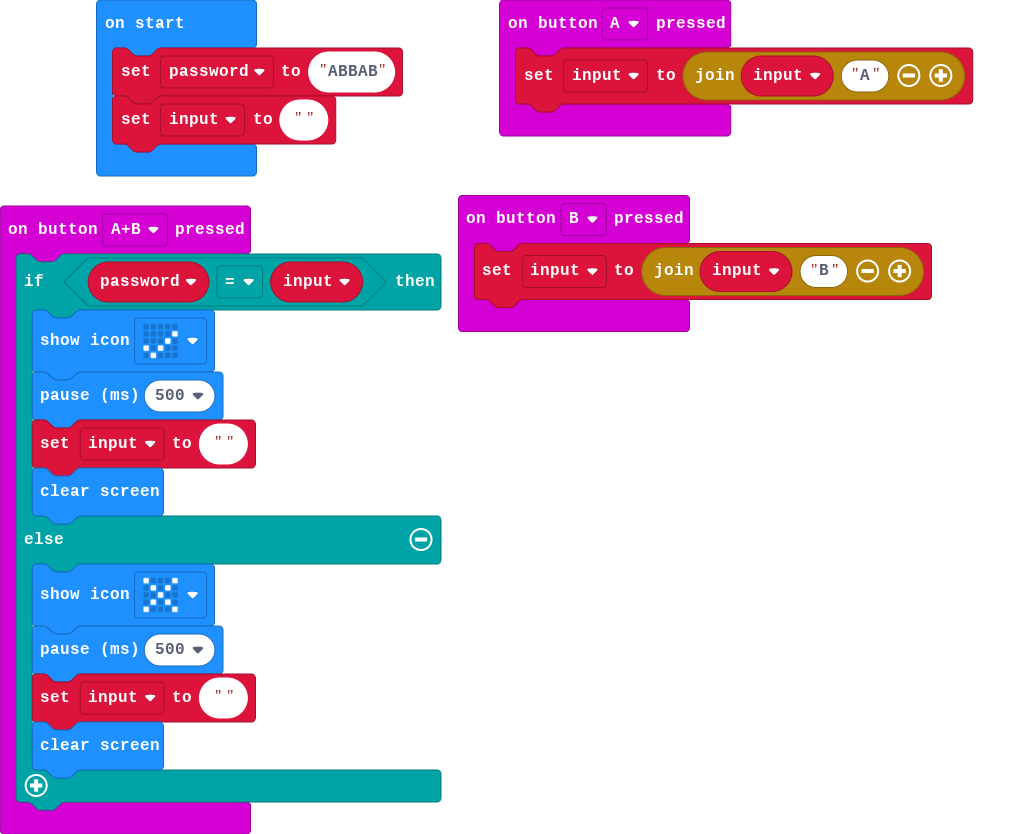
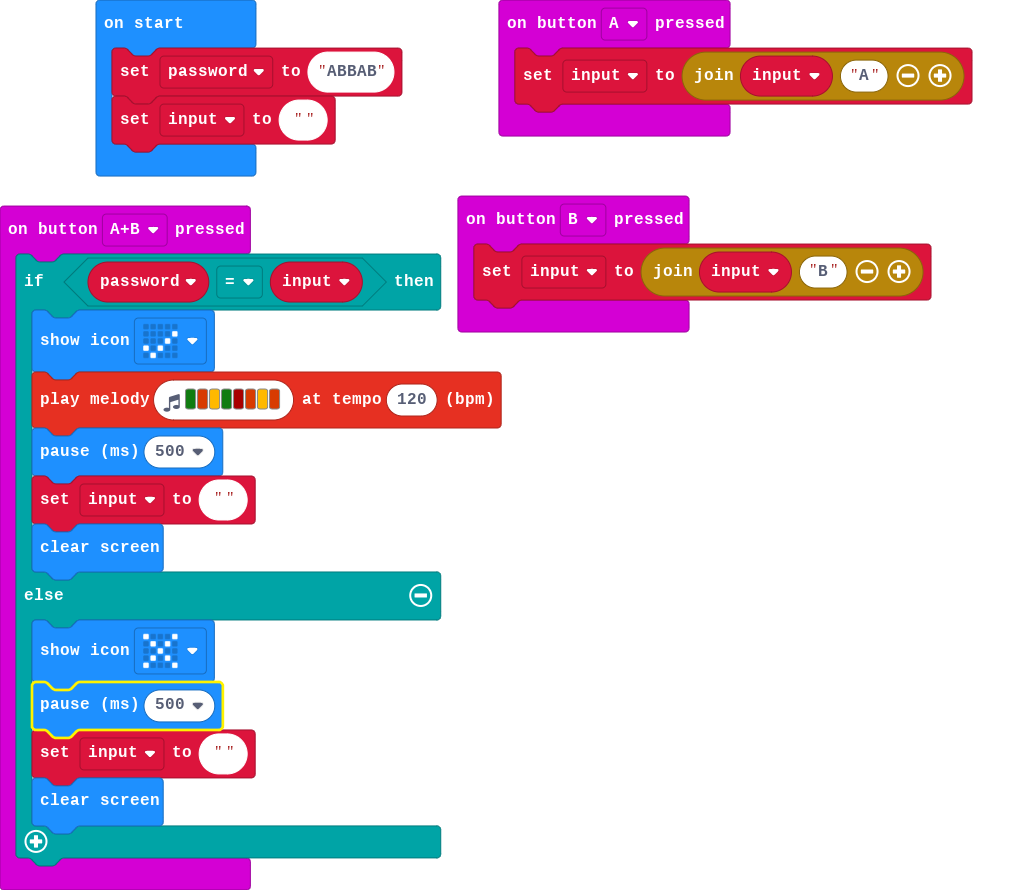
Update main.blocks, main.ts

Changed region(s): [[0.0, 0.0, 0.9062, 0.9976], [0.4688, 0.0, 0.9688, 0.1871]]

diff --git a/main.ts b/main.ts
@@ -4,6 +4,7 @@ input.onButtonPressed(Button.A, function () {
 input.onButtonPressed(Button.AB, function () {
     if (password == input2) {
         basic.showIcon(IconNames.Yes)
+        music.playMelody("G B A G C5 B A B ", 120)
         basic.pause(500)
         input2 = ""
         basic.clearScreen()
